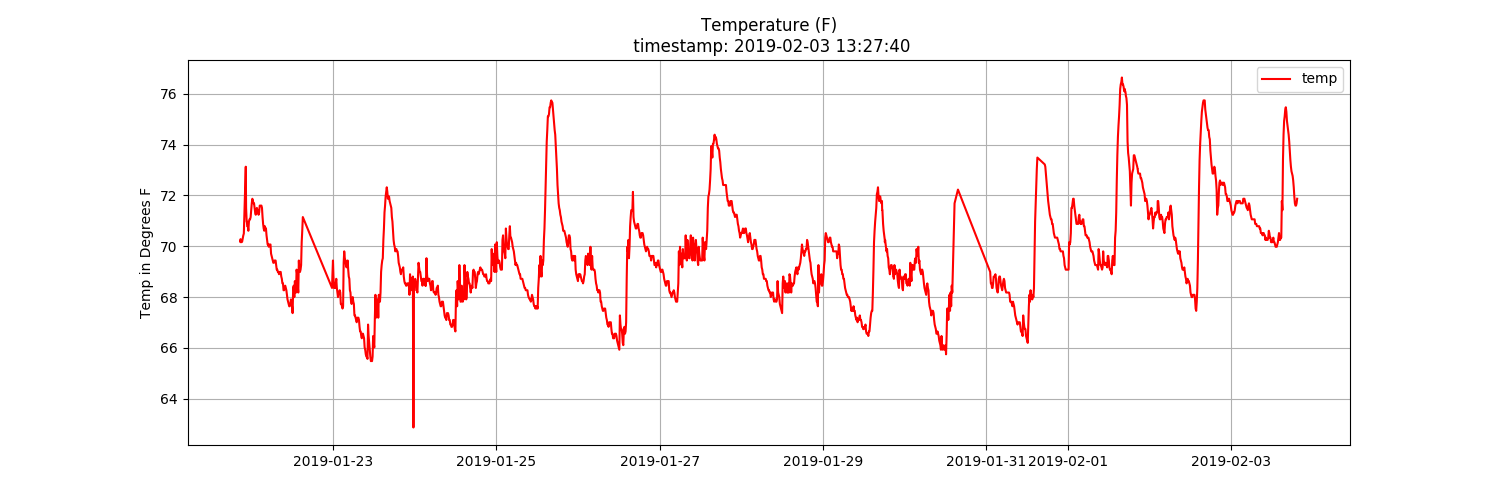
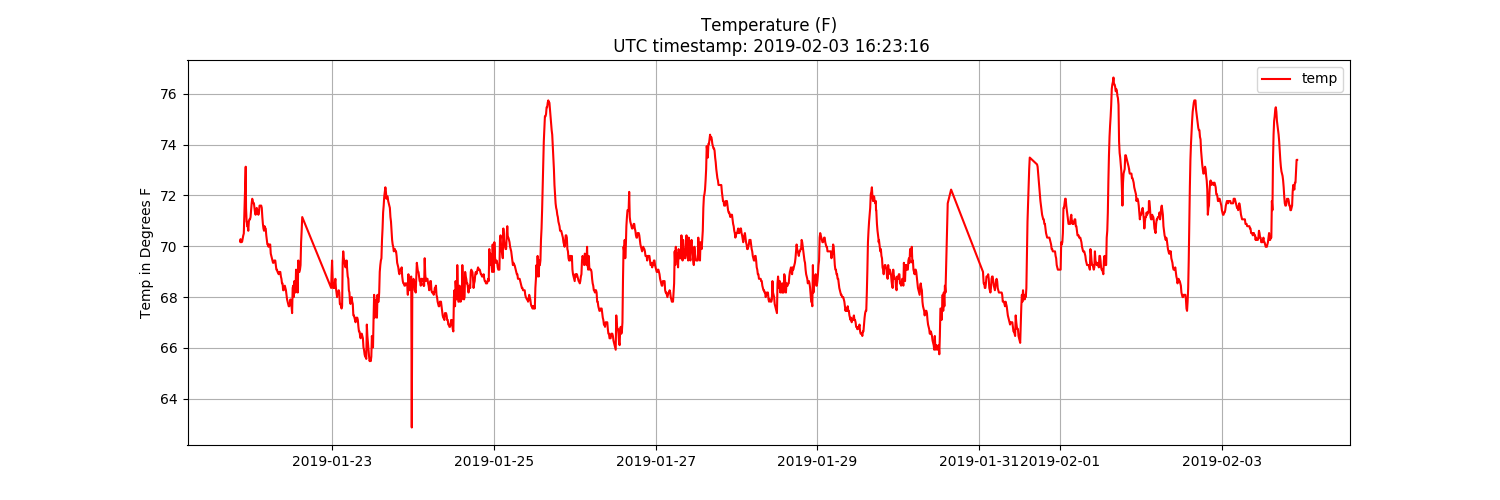
graphing should work

diff --git a/graphs.py b/graphs.py
@@ -23,20 +23,22 @@ class SensorGrapher():
         self.timestamp = datetime.now().strftime("%Y-%m-%d %H:%M:%S")
 
     def fetch_df(self):
-        cur.execute(sensor_query)
-        data = cur.fetchall()
+        self.cur.execute(self.query)
+        data = self.cur.fetchall()
         df = pd.DataFrame(np.array(data))
-        df.columns = ['time_stamp', 'temp', 'humid', 'light', 'top_soil', 'mid_soil', 'tray']
-        df['time_stamp'] = pd.to_datetime(df.time_stamp)
-        df = df.set_index('time_stamp')
-        self.df = df[df.time_stamp >= (datetime.now()-timedelta(days=14))]
+        df.columns = ['timestamp', 'temp', 'humid', 'light', 'top_soil', 'mid_soil', 'tray']
+        df['timestamp'] = pd.to_datetime(df.timestamp)
+        df = df[df.timestamp >= (datetime.now()-timedelta(days=14))]
+        df = df.set_index('timestamp')
+        self.df = df
+
 
     def plot_moisture_data(self):
         moist_df = self.df[['tray','top_soil', 'mid_soil']]
-        moist_df = moist_df[['top_soil', 'mid_soil', 'tray']].mask(df < 350)
+        moist_df = moist_df[['top_soil', 'mid_soil', 'tray']].mask(moist_df < 350)
         fig, axs = plt.subplots(1, 1, figsize=(15,5))
         axs.plot(moist_df.index, ((moist_df[['top_soil', 'mid_soil', 'tray']]/(-1024))+1))
-        axs.set_title('Moisture Sensors\n timestamp: '+timestamp)
+        axs.set_title('Moisture Sensors\n timestamp: '+ self.timestamp)
         axs.set_ylabel('Soil Moisture Readings \n 1 is completely soaked')
         axs.legend(moist_df.columns)
         axs.grid(True)
@@ -46,7 +48,7 @@ class SensorGrapher():
         pdf = self.df[['temp']]
         fig, axs = plt.subplots(1, 1, figsize=(15,5))
         axs.plot(pdf, color='red')
-        axs.set_title('Temperature (F)\n UTC timestamp: '+timestamp)
+        axs.set_title('Temperature (F)\n UTC timestamp: '+ self.timestamp)
         axs.set_ylabel('Temp in Degrees F')
         axs.legend(pdf.columns)
         axs.grid(True)
@@ -56,7 +58,7 @@ class SensorGrapher():
         pdf = self.df[['humid']]
         fig, axs = plt.subplots(1, 1, figsize=(15,5))
         axs.plot(pdf, color='lightblue')
-        axs.set_title('Humidity\n UTC timestamp: '+timestamp)
+        axs.set_title('Humidity\n UTC timestamp: '+ self.timestamp)
         axs.set_ylabel('Rel. Humidity (%)')
         axs.legend(pdf.columns)
         axs.grid(True)
@@ -66,7 +68,7 @@ class SensorGrapher():
         pdf = self.df[['light']]
         fig, axs = plt.subplots(1, 1, figsize=(15,5))
         axs.plot(pdf, color='orange')
-        axs.set_title('Sunlight\n UTC timestamp: '+timestamp)
+        axs.set_title('Sunlight\n UTC timestamp: '+ self.timestamp)
         axs.set_ylabel('Reading from LDR, unsure of unit')
         axs.legend(pdf.columns)
         axs.grid(True)

diff --git a/app.py b/app.py
@@ -42,6 +42,7 @@ def make_graphs():
     grapher.plot_temp_data()
     grapher.plot_light_data()
     grapher.plot_humid_data()
+    return "graphs made"
     
 
 if __name__ == '__main__':
